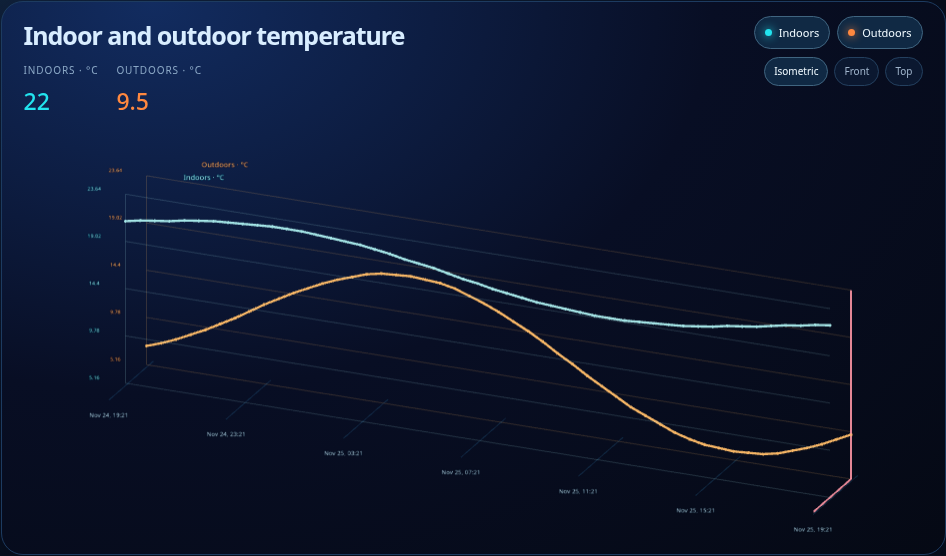
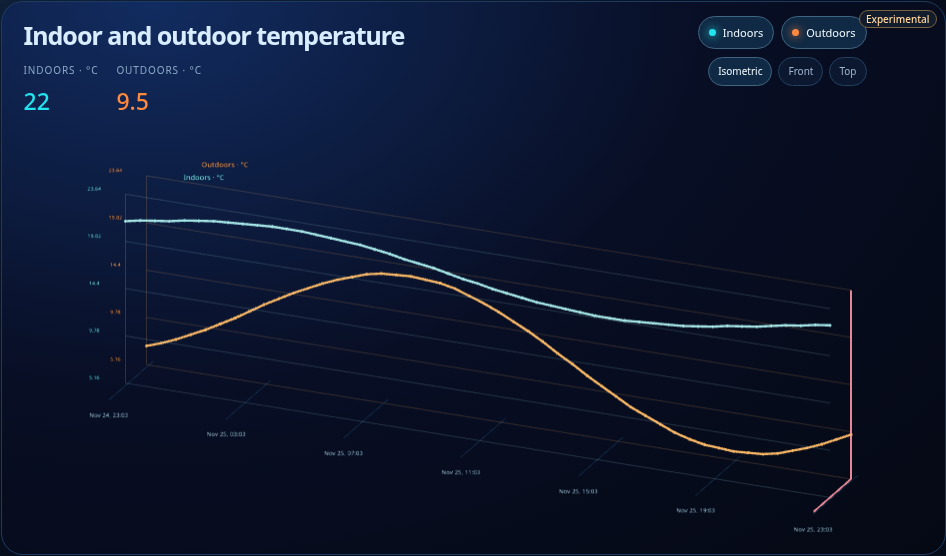
Update Graph setup guide, demo navigation and screenshot

Changed region(s): [[0.7357, 0.0, 0.981, 0.1529]]

diff --git a/cover/index.html b/cover/index.html
@@ -2,7 +2,7 @@
 <html lang="en"><head><meta charset="utf-8"><meta name="viewport" content="width=device-width,initial-scale=1">
 <title>Cover · Gleam Cards</title><link rel="stylesheet" href="../dev/gallery.css"></head>
 <body data-card="cover"><main>
-<nav aria-label="Demo gallery"><a href="../">← All cards</a><a href="../energy-graph/">Energy Graph</a><a href="../thermostat/">Thermostat</a><a href="../cover/" aria-current="page">Cover</a><a href="../light/">Light</a></nav>
+<nav aria-label="Demo gallery"><a href="../">← All cards</a><a href="../energy-graph/">Energy Graph</a><a href="../graph/">Graph</a><a href="../thermostat/">Thermostat</a><a href="../cover/" aria-current="page">Cover</a><a href="../light/">Light</a></nav>
 <header><p class="kicker">Gleam Cards · Stable</p><h1>Cover</h1><p class="lead">Draw curtains from the center or to one side, tilt a blind, raise a shade or shutter, or operate two garage doors independently.</p></header>
 <div id="cards"></div><p id="actions" role="status">No cover commands yet.</p>
 <footer>Previewing one dashboard section. Normal and Double fill a row; Compact takes half. <a href="https://github.com/magnusoverli/gleam-card/blob/main/docs/cover.md">Cover settings ↗</a></footer>

diff --git a/energy-graph/index.html b/energy-graph/index.html
@@ -2,7 +2,7 @@
 <html lang="en"><head><meta charset="utf-8"><meta name="viewport" content="width=device-width,initial-scale=1">
 <title>Energy Graph · Gleam Cards</title><link rel="stylesheet" href="../dev/gallery.css"></head>
 <body data-card="energy"><main>
-<nav aria-label="Demo gallery"><a href="../">← All cards</a><a href="../energy-graph/" aria-current="page">Energy Graph</a><a href="../thermostat/">Thermostat</a><a href="../cover/">Cover</a><a href="../light/">Light</a></nav>
+<nav aria-label="Demo gallery"><a href="../">← All cards</a><a href="../energy-graph/" aria-current="page">Energy Graph</a><a href="../graph/">Graph</a><a href="../thermostat/">Thermostat</a><a href="../cover/">Cover</a><a href="../light/">Light</a></nav>
 <header><p class="kicker">Gleam Cards · Stable</p><h1>Energy Graph</h1><p class="lead">Drag to rotate the graph. Choose <b>Front</b> to compare consumption with price hour by hour, then tap a series to hide or show it.</p></header>
 <div id="cards"></div><footer>Sample energy data. <a href="https://github.com/magnusoverli/gleam-card/blob/main/docs/energy-graph.md">Graph settings ↗</a></footer>
 </main><script type="module" src="../dev/preview.js"></script></body></html>

diff --git a/thermostat/index.html b/thermostat/index.html
@@ -2,7 +2,7 @@
 <html lang="en"><head><meta charset="utf-8"><meta name="viewport" content="width=device-width,initial-scale=1">
 <title>Thermostat · Gleam Cards</title><link rel="stylesheet" href="../dev/gallery.css"></head>
 <body data-card="thermostat"><main>
-<nav aria-label="Demo gallery"><a href="../">← All cards</a><a href="../energy-graph/">Energy Graph</a><a href="../thermostat/" aria-current="page">Thermostat</a><a href="../cover/">Cover</a><a href="../light/">Light</a></nav>
+<nav aria-label="Demo gallery"><a href="../">← All cards</a><a href="../energy-graph/">Energy Graph</a><a href="../graph/">Graph</a><a href="../thermostat/" aria-current="page">Thermostat</a><a href="../cover/">Cover</a><a href="../light/">Light</a></nav>
 <header><p class="kicker">Gleam Cards · Experimental</p><h1>Thermostat</h1><p class="lead">Turn the dial or use the + and − buttons to change the target temperature. Only the demo heat pump responds.</p></header>
 <div id="cards"></div><p id="actions" role="status">No temperature or mode changes yet.</p>
 <footer>Simulated climate device. <a href="https://github.com/magnusoverli/gleam-card/blob/main/docs/thermostat.md">Thermostat settings ↗</a></footer>

diff --git a/light/index.html b/light/index.html
@@ -2,7 +2,7 @@
 <html lang="en"><head><meta charset="utf-8"><meta name="viewport" content="width=device-width,initial-scale=1">
 <title>Light · Gleam Cards</title><link rel="stylesheet" href="../dev/gallery.css"></head>
 <body data-card="light"><main>
-<nav aria-label="Demo gallery"><a href="../">← All cards</a><a href="../energy-graph/">Energy Graph</a><a href="../thermostat/">Thermostat</a><a href="../cover/">Cover</a><a href="../light/" aria-current="page">Light</a></nav>
+<nav aria-label="Demo gallery"><a href="../">← All cards</a><a href="../energy-graph/">Energy Graph</a><a href="../graph/">Graph</a><a href="../thermostat/">Thermostat</a><a href="../cover/">Cover</a><a href="../light/" aria-current="page">Light</a></nav>
  <header><p class="kicker">Gleam Cards · New</p><h1>Light</h1><p class="lead">Switch, dim or tune zones of ceiling spots in a furnished room. Tap a spot or its beam to switch its zone.</p></header>
 <div id="cards"></div><p id="actions" role="status">No light commands yet.</p>
 <footer>Previewing one dashboard section. Normal fills a row; Compact takes half. <a href="https://github.com/magnusoverli/gleam-card/blob/main/docs/light.md">Light settings ↗</a></footer>

diff --git a/graph/index.html b/graph/index.html
@@ -2,7 +2,7 @@
 <html lang="en"><head><meta charset="utf-8"><meta name="viewport" content="width=device-width,initial-scale=1">
 <title>Graph · Gleam Cards</title><link rel="stylesheet" href="../dev/gallery.css"></head>
 <body data-card="graph"><main>
-<nav aria-label="Demo gallery"><a href="../">← All cards</a><a href="../energy-graph/">Energy Graph</a></nav>
+<nav aria-label="Demo gallery"><a href="../">← All cards</a><a href="../energy-graph/">Energy Graph</a><a href="../graph/" aria-current="page">Graph</a><a href="../thermostat/">Thermostat</a><a href="../cover/">Cover</a><a href="../light/">Light</a></nav>
 <header><p class="kicker">Gleam Cards · Experimental</p><h1>Graph</h1><p class="lead">Compare indoor and outdoor temperatures. Toggle a series or switch to Front view to compare the two lines on one scale.</p></header>
 <div id="cards"></div>
 <footer><a href="https://github.com/magnusoverli/gleam-card/blob/main/docs/graph.md">Graph settings ↗</a></footer>

diff --git a/README.md b/README.md
@@ -10,7 +10,7 @@
 
 <a href="https://magnusoverli.github.io/gleam-card/energy-graph/"><img src="docs/images/energy-graph.png" width="640" alt="Hourly energy bars alongside a stepped electricity price forecast."></a>
 
-[**Try Gleam Energy Graph →**](https://magnusoverli.github.io/gleam-card/energy-graph/) · [Graph settings](docs/energy-graph.md)
+[**Try Gleam Energy Graph →**](https://magnusoverli.github.io/gleam-card/energy-graph/) · [Energy Graph settings](docs/energy-graph.md)
 
 ## Graph
 
@@ -57,8 +57,8 @@
 [![Open Gleam Cards in your Home Assistant Marketplace](https://my.home-assistant.io/badges/marketplace_repository.svg)](https://my.home-assistant.io/redirect/marketplace_repository/?owner=magnusoverli&repository=gleam-card&category=plugin)
 
 1. Open the link above. If Gleam Cards isn’t in your catalog, confirm **Add custom repository** when prompted, then install the Dashboard package.
-2. Reload the dashboard. Choose **Edit dashboard → Add card → Gleam Energy Graph**.
-3. Under **Main energy → Sensor**, select a cumulative meter that reports kWh and has hourly Recorder statistics. Save the card. Price and current-hour readings are optional.
+2. Reload the dashboard and choose **Edit dashboard → Add card**. All five cards support live picker previews; what you see depends on your entities and their recorded history.
+3. For ordinary sensor history, choose **Graph (Experimental)** and select one to four numeric sensors. For hourly energy use, choose **Gleam Energy Graph** and select a cumulative kWh meter under **Main energy → Sensor**. Save the card.
 
 Prefer YAML? Replace the example entity with your meter:
 
@@ -84,7 +84,7 @@ Copy [`dist/gleam-card.js`](dist/gleam-card.js) to `<Home Assistant config>/www/
 
 Both graphs require **WebGL 2** for the chart; the thermostat’s HTML controls also work without the 3D dial. Cover and Light draw in SVG and do not require WebGL. No card needs a CDN or a separate backend integration.
 
-[Energy Graph guide](docs/energy-graph.md) · [Thermostat guide](docs/thermostat.md) · [Cover guide](docs/cover.md) · [Light guide](docs/light.md) · [Report an issue](https://github.com/magnusoverli/gleam-card/issues)
+[Energy Graph guide](docs/energy-graph.md) · [Graph guide](docs/graph.md) · [Thermostat guide](docs/thermostat.md) · [Cover guide](docs/cover.md) · [Light guide](docs/light.md) · [Report an issue](https://github.com/magnusoverli/gleam-card/issues)
 
 For local previews, builds, and tests, see [Development](docs/development.md). Release instructions are in [Publishing](docs/publishing.md).
 

diff --git a/docs/development.md b/docs/development.md
@@ -7,14 +7,16 @@
 | `src/index.ts` | Typed entry point; idempotent custom-element and card-picker registration |
 | `src/shared/theme.ts` | Shared shadow-DOM style foundation |
 | `src/cards/energy-graph/` | Energy card and pure data transforms |
+| `src/cards/graph/` | Generic numeric sensor graph, series configuration, history cache and editor |
+| `src/shared/graph/` | Shared graph frame, camera, scene rendering and history requests |
 | `src/cards/thermostat/` | Thermostat and its visual editor |
 | `src/cards/cover/` | Layouts, per-door state and controls, SVG garage and visual editor |
 | `src/cards/light/` | In-roof spots: pure layout and lighting (`spots.ts`), retained SVG (`scene.ts`), light commands (`model.ts`), card and editor |
 | `src/cards/energy-graph/recorder.ts` | Recorder requests through a narrow client interface |
 | `src/cards/thermostat/commands.ts` | Pure command validation and climate-action transport |
 | `scripts/deploy.js` | Content-hashed filesystem deployment with a stable loader |
-| `index.html`, `energy-graph/`, `thermostat/`, `cover/`, `light/` | Public demo gallery and standalone card pages |
-| `dev/preview.js`, `dev/demo.js` | Shared preview entry and synthetic states, history, and mock actions; `/dev/fixture.html` mounts all cards for regression tests |
+| `index.html`, `energy-graph/`, `graph/`, `thermostat/`, `cover/`, `light/` | Public demo gallery and standalone card pages |
+| `dev/preview.js`, `dev/demo.js` | Shared preview entry and synthetic states, history, and mock actions for the demos and browser fixtures |
 | `tests/data.test.js` | Data-contract regression tests |
 | `tests/browser/` | Built-bundle browser and interaction checks |
 | `vite.config.ts` | Single-resource library build and license distribution |

diff --git a/docs/publishing.md b/docs/publishing.md
@@ -1,8 +1,8 @@
 # Publish Gleam Cards
 
 Submit **one Dashboard package** (`plugin` in the catalog). The root `hacs.json`
-names `gleam-card.js`. Graph, Energy Graph, Cover, Light and the experimental Thermostat
-use the same bundle and release; there is no integration manifest or hassfest job.
+names `gleam-card.js`. All five cards share one bundle and release. Graph and
+Thermostat are marked Experimental; there is no integration manifest or hassfest job.
 
 1. **Prepare the candidate.** Track changes under **Unreleased** in the
    [changelog](../CHANGELOG.md). Group highlights under an emoji heading for

diff --git a/docs/graph.md b/docs/graph.md
@@ -1,5 +1,7 @@
 # Graph
 
+[Try the interactive demo](https://magnusoverli.github.io/gleam-card/graph/) to compare two temperatures without connecting any devices.
+
 Choose **Graph (Experimental)** in the Home Assistant card picker, select a numeric `sensor.*` and add up to three more. Use **Move up** and **Move down** to change lane order. **Front** is useful for comparing curves; **Isometric** shows the lanes separately. Drag to orbit, right-drag to pan, pinch or scroll to zoom, and point at a measurement for its time and value.
 
 ```yaml

diff --git a/docs/energy-graph.md b/docs/energy-graph.md
@@ -1,5 +1,7 @@
 # Gleam Energy Graph
 
+For temperature, humidity, pressure or other numeric sensor history, use [Graph (Experimental)](graph.md). Gleam Energy Graph is for hourly energy use and electricity prices.
+
 Use `type: custom:gleam-energy-graph`, or choose **Gleam Energy Graph** in the
 dashboard's **Add card** dialog. The visual editor supports all options below.
 Sensor fields offer searchable entity-ID suggestions with friendly names from
